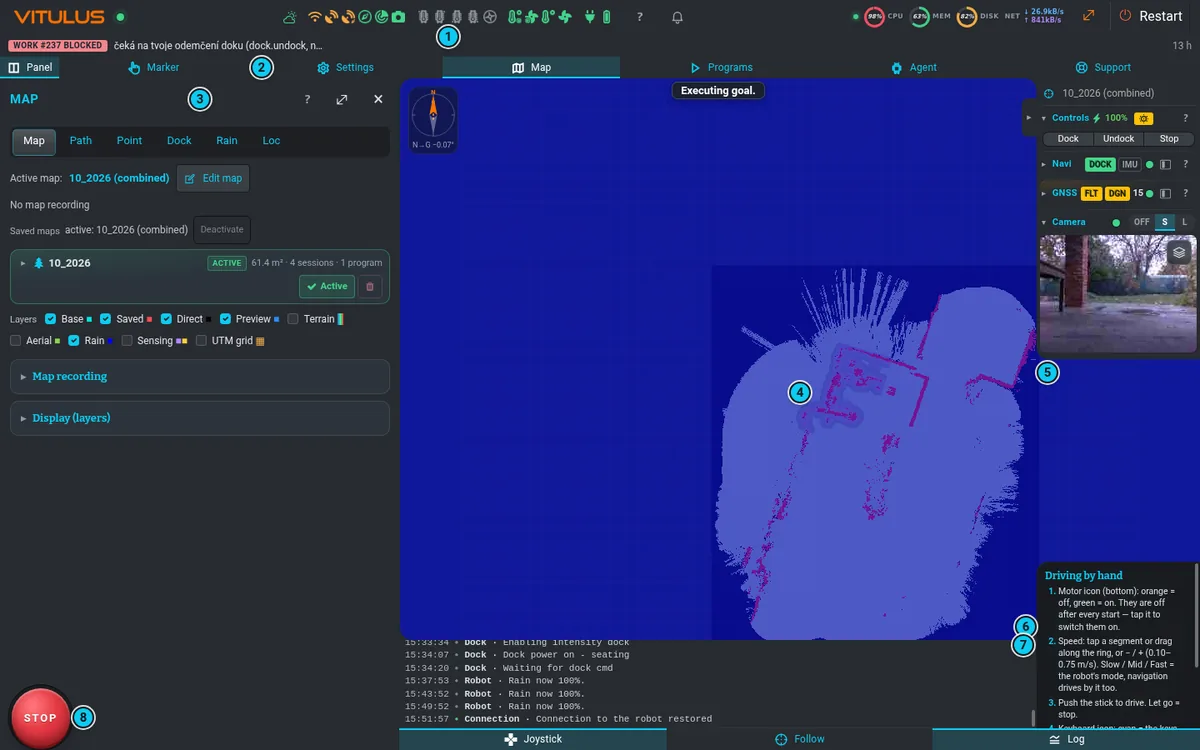
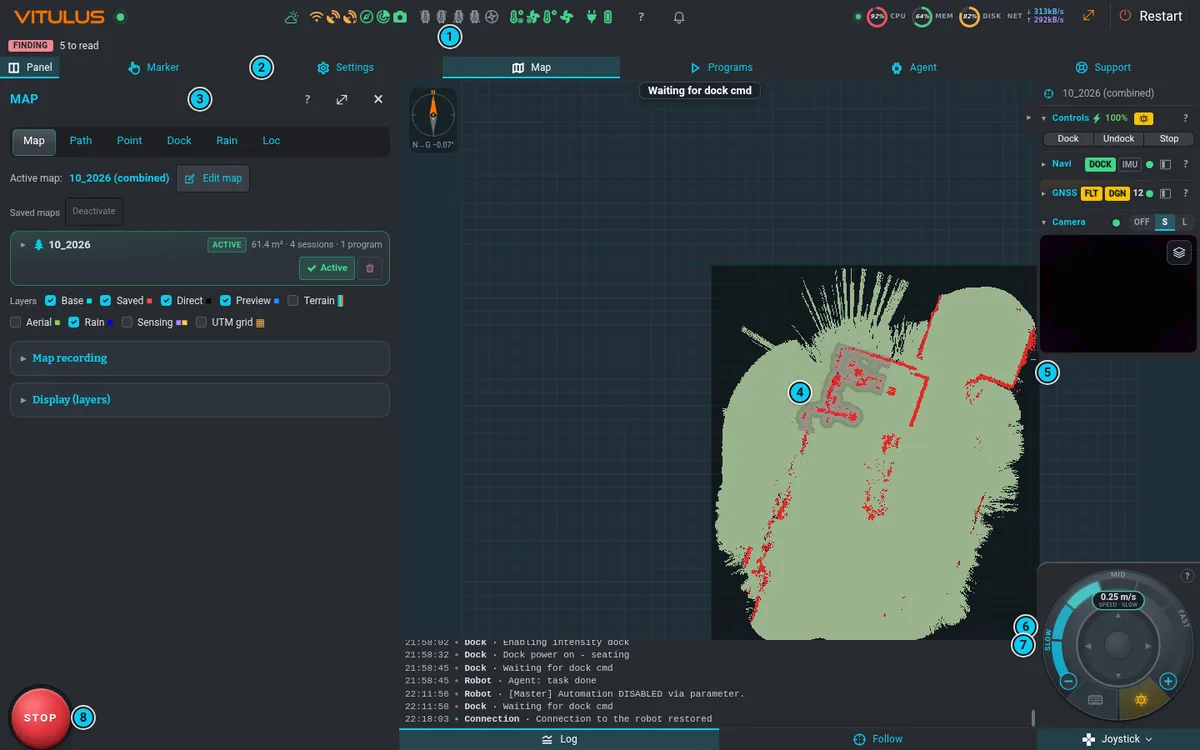
Spodní lišta: Log a Joystick prohozené, Joystick = ouško panelu jízdy
- pořadí Log · Follow · Joystick (telefon: Log · mezera 84 px · Follow · Joystick); Joystick na pravém konci přímo pod panelem jízdy, šířka a poloha = pravý sloupec (--vt-frame-col-w, s panelem vedle rozbaleného pravého panelu posun --vt-frame-joy-r), na výšku 104 px pod prstencem pásu
- zavřený panel: ouško vystupuje 12 px z lišty (plocha rámu, konvexní roh, konkávní přechod do lišty, úchyt) a ▴; otevřený: panel stojí na oušku bez švu, ouško podsvícené, ▾; aria-expanded + aria-controls
- ouško nevystupuje pod logem, sheetem, panelem přes celou šířku a nápovědou (vt-joy-tab ve vt_frame.js); pravý panel končí nad ním (right_dock.js)
- na dotyku zůstává mezera pro systémové gesto uprostřed
- tooltip en+cs, nápověda frame en+cs (Spodní lišta, Ruční jízda, Log), UI_LAYOUT, snímky shot-desktop / shot-phone / shot-bottom-bar

diff --git a/nodes/templates/assets/css/vt_panel.css b/nodes/templates/assets/css/vt_panel.css
@@ -1404,8 +1404,9 @@ body.vt-frame .vt-c-corner { display: block; }
    - STOP is ALWAYS the same: bottom-left, 20 % of the width (as before) —
      never smaller, never moved.
    - On a phone the bar sits at the very bottom edge and leaves a free gap in
-     the middle for the system home button / gesture pill: STOP + Joystick on
-     the left, Follow + Log on the right. No gap on a PC. */
+     the middle for the system home button / gesture pill: STOP + Log on the
+     left, Follow + Joystick on the right (2026-10-25: Joystick under the
+     drive panel, see "the drive panel's tab" below). No gap on a PC. */
 :root { --vt-bar-gap: 0px; }
 @media (max-width: 575.98px), (max-height: 499.98px), (pointer: coarse) {
     :root { --vt-bar-gap: 84px; }
@@ -1414,13 +1415,87 @@ body.vt-frame #btn_camera_show { display: none !important; }
 body.vt-frame #div_bottom_menu .btn-group { display: flex !important; }
 body.vt-frame #div_bottom_menu .btn-group > .btn { flex: 1 1 0; min-width: 0; }
 body.vt-frame #div_bottom_menu #btn_stop_all { flex: 0 0 20%; }
-body.vt-frame #div_bottom_menu #btn_joy { margin-right: var(--vt-bar-gap); }
+body.vt-frame #div_bottom_menu #btn_log { margin-right: var(--vt-bar-gap); }
 @media (max-width: 575.98px), (max-height: 499.98px), (pointer: coarse) {
     body.vt-frame #div_bottom_menu {
         bottom: 0 !important;
         background: var(--vt-frame-bg);
         padding-bottom: var(--safe-bottom, 0px);
     }
+}
+
+/* ===== Joystick = the drive panel's tab (owner 2026-10-25) ================
+   "Swap Log and Joystick, and Joystick goes with the joystick, joined to
+   it": the bar reads Log · Follow · Joystick and the Joystick button is the
+   TAB of the drive panel — right under it, as wide as the right column
+   (--vt-frame-col-w; under the deck also when it stands beside the unfolded
+   right panel, --vt-frame-joy-r).
+   - closed: the tab rises a little out of the bar (frame surface, convex
+     top-left corner, the C's concave fillet where it meets the bar — like
+     the other protrusions) and its chevron points up = "opens the panel
+     above"; vt_frame.js sets vt-joy-tab only where nothing of the frame
+     lies on that spot (log, sheet, full-width panel); the right panel ends
+     above it (right_dock.js);
+   - open: the deck stands on it — one column down to the page edge, no
+     seam (no accent edge between them), a light wash, the chevron down;
+   - phone upright: the band's ring sits on the right, so the tab is the
+     bar's right end too (narrower). On touch screens the gesture gap stays
+     centred: Follow + Joystick fill the right half. */
+:root { --vt-joy-tab-h: 12px; }
+body.vt-frame { --vt-joy-tab-w: var(--vt-frame-col-w, 196px); }
+body.vt-frame.vt-m-sheet { --vt-joy-tab-w: 104px; }
+body.vt-frame #div_bottom_menu #btn_joy {
+    flex: 0 0 var(--vt-joy-tab-w);
+    margin-right: var(--vt-frame-joy-r, 0px);
+    position: relative;
+    overflow: visible;
+}
+@media (max-width: 575.98px), (max-height: 499.98px), (pointer: coarse) {
+    body.vt-frame #div_bottom_menu #btn_follow {
+        flex: 0 0 max(48px, calc(50vw - var(--vt-bar-gap) / 2 - var(--vt-joy-tab-w) - var(--vt-frame-joy-r, 0px)));
+    }
+    /* the deck beside the unfolded right panel takes most of the right half:
+       Follow joins Log on the left, the gap stays next to the tab */
+    body.vt-frame.vt-joy-beside-rp #div_bottom_menu #btn_log { margin-right: 0; }
+    body.vt-frame.vt-joy-beside-rp #div_bottom_menu #btn_follow { flex: 1 1 0; margin-right: var(--vt-bar-gap); }
+}
+/* the tab: a strip of frame surface above the button, the fillet on its
+   left and a grip in its middle (the sheet's "pull me up" sign) */
+body.vt-frame #div_bottom_menu #btn_joy::before {
+    content: "";
+    position: absolute;
+    left: calc(-1 * var(--vt-joy-tab-h)); right: 0; bottom: 100%;
+    height: var(--vt-joy-tab-h);
+    background:
+        linear-gradient(rgba(var(--vt-accent-rgb), 0.55), rgba(var(--vt-accent-rgb), 0.55))
+            calc(50% + var(--vt-joy-tab-h) / 2) 5px / 28px 3px no-repeat,
+        radial-gradient(circle at 0 0, transparent calc(var(--vt-joy-tab-h) - 0.6px), var(--vt-frame-bg) var(--vt-joy-tab-h))
+            0 0 / var(--vt-joy-tab-h) 100% no-repeat,
+        radial-gradient(circle at 100% 100%, var(--vt-frame-bg) calc(var(--vt-joy-tab-h) - 0.6px), transparent var(--vt-joy-tab-h))
+            var(--vt-joy-tab-h) 0 / var(--vt-joy-tab-h) 100% no-repeat,
+        linear-gradient(var(--vt-frame-bg), var(--vt-frame-bg))
+            calc(2 * var(--vt-joy-tab-h)) 0 / calc(100% - 2 * var(--vt-joy-tab-h)) 100% no-repeat;
+    pointer-events: none;
+    display: none;
+}
+body.vt-frame.vt-joy-tab #div_bottom_menu #btn_joy::before { display: block; }
+body.vt-frame.vt-joy-tab:has(#vt_help.open) #div_bottom_menu #btn_joy::before { display: none; }
+/* the chevron: up = opens the panel above, down = closes it */
+#div_bottom_menu #btn_joy > .vt-joy-tab-chev {
+    order: 2;
+    font-size: 15px; font-weight: 400;
+    margin-left: 3px;
+    opacity: 0.7;
+    transition: transform .15s ease;
+}
+body.vt-frame.vt-m-dock #div_bottom_menu #btn_joy::after { order: 1; }
+#div_bottom_menu #btn_joy.vt-on > .vt-joy-tab-chev { transform: rotate(180deg); }
+body:not(.vt-frame) #div_bottom_menu #btn_joy > .vt-joy-tab-chev { display: none; }
+/* open: the deck and its tab are one column — a wash, no seam */
+html body.vt-frame #div_bottom_menu #btn_joy.btn.vt-on {
+    background: rgba(var(--vt-accent-rgb), 0.12);
+    box-shadow: none;
+    color: #fff;
 }
 
 /* ===== C frame 2 (owner 2026-10-18) ======================================

diff --git a/nodes/templates/index.html b/nodes/templates/index.html
@@ -778,7 +778,12 @@ ul.nav-tabs.drawer-pills .nav-link.active {
         <div class="btn-group btn-group-sm bg-dark border rounded border-1 border-primary vt-tbar" role="group"><button class="btn btn-outline-danger active d-flex justify-content-center align-items-center vt-tbar-first" id="btn_stop_all" type="button"><svg xmlns="http://www.w3.org/2000/svg" width="1em" height="1em" fill="currentColor" viewBox="0 0 16 16" class="bi bi-sign-stop-fill vt-fs-xl vt-strong">
                     <path d="M10.371 8.277v-.553c0-.827-.422-1.234-.987-1.234-.572 0-.99.407-.99 1.234v.553c0 .83.418 1.237.99 1.237.565 0 .987-.408.987-1.237m2.586-.24c.463 0 .735-.272.735-.744s-.272-.741-.735-.741h-.774v1.485h.774"></path>
                     <path d="M4.893 0a.5.5 0 0 0-.353.146L.146 4.54A.5.5 0 0 0 0 4.893v6.214a.5.5 0 0 0 .146.353l4.394 4.394a.5.5 0 0 0 .353.146h6.214a.5.5 0 0 0 .353-.146l4.394-4.394a.5.5 0 0 0 .146-.353V4.893a.5.5 0 0 0-.146-.353L11.46.146A.5.5 0 0 0 11.107 0zM3.16 10.08c-.931 0-1.447-.493-1.494-1.132h.653c.065.346.396.583.891.583.524 0 .83-.246.83-.62 0-.303-.203-.467-.637-.572l-.656-.164c-.61-.147-.978-.51-.978-1.078 0-.706.597-1.184 1.444-1.184.853 0 1.386.475 1.436 1.087h-.645c-.064-.32-.352-.542-.797-.542-.472 0-.77.246-.77.6 0 .261.196.437.553.522l.654.161c.673.164 1.06.487 1.06 1.11 0 .736-.574 1.228-1.544 1.228Zm3.427-3.51V10h-.665V6.57H4.753V6h3.006v.568H6.587Zm4.458 1.16v.544c0 1.131-.636 1.805-1.661 1.805-1.026 0-1.664-.674-1.664-1.805V7.73c0-1.136.638-1.807 1.664-1.807 1.025 0 1.66.674 1.66 1.807ZM11.52 6h1.535c.82 0 1.316.55 1.316 1.292 0 .747-.501 1.289-1.321 1.289h-.865V10h-.665V6.001Z"></path>
-                </svg></button><button class="btn btn-outline-info d-flex justify-content-center align-items-center" id="btn_camera_show" type="button"><i class="la la-camera vt-fs-xl vt-strong"></i></button><button class="btn btn-outline-info d-flex justify-content-center align-items-center" id="btn_joy" type="button"><i class="material-icons vt-fs-xl vt-strong">games</i></button><button class="btn btn-outline-info d-flex justify-content-center align-items-center" id="btn_follow" type="button"><svg xmlns="http://www.w3.org/2000/svg" width="1em" height="1em" viewBox="0 0 24 24" stroke-width="2" stroke="currentColor" fill="none" stroke-linecap="round" stroke-linejoin="round" class="icon icon-tabler icon-tabler-viewfinder vt-fs-xl vt-strong">
+                </svg></button><button class="btn btn-outline-info d-flex justify-content-center align-items-center" id="btn_camera_show" type="button"><i class="la la-camera vt-fs-xl vt-strong"></i></button><button class="btn btn-outline-info d-flex justify-content-center align-items-center" id="btn_log" type="button"><svg xmlns="http://www.w3.org/2000/svg" enable-background="new 0 0 24 24" height="1em" viewBox="0 0 24 24" width="1em" fill="currentColor" class="vt-fs-xl vt-strong">
+                    <g>
+                        <rect fill="none" height="24" width="24"></rect>
+                        <path d="M20,15H4v-2h16V15z M20,17H4v2h16V17z M15,11l5-3.55L20,5l-5,3.55L10,5L4,8.66L4,11l5.92-3.61L15,11z"></path>
+                    </g>
+                </svg></button><button class="btn btn-outline-info d-flex justify-content-center align-items-center" id="btn_follow" type="button"><svg xmlns="http://www.w3.org/2000/svg" width="1em" height="1em" viewBox="0 0 24 24" stroke-width="2" stroke="currentColor" fill="none" stroke-linecap="round" stroke-linejoin="round" class="icon icon-tabler icon-tabler-viewfinder vt-fs-xl vt-strong">
                     <path stroke="none" d="M0 0h24v24H0z" fill="none"></path>
                     <path d="M12 12m-9 0a9 9 0 1 0 18 0a9 9 0 1 0 -18 0"></path>
                     <path d="M12 3l0 4"></path>
@@ -786,12 +791,7 @@ ul.nav-tabs.drawer-pills .nav-link.active {
                     <path d="M3 12l4 0"></path>
                     <path d="M21 12l-3 0"></path>
                     <path d="M12 12l0 .01"></path>
-                </svg></button><button class="btn btn-outline-info d-flex justify-content-center align-items-center vt-tbar-last" id="btn_log" type="button"><svg xmlns="http://www.w3.org/2000/svg" enable-background="new 0 0 24 24" height="1em" viewBox="0 0 24 24" width="1em" fill="currentColor" class="vt-fs-xl vt-strong">
-                    <g>
-                        <rect fill="none" height="24" width="24"></rect>
-                        <path d="M20,15H4v-2h16V15z M20,17H4v2h16V17z M15,11l5-3.55L20,5l-5,3.55L10,5L4,8.66L4,11l5.92-3.61L15,11z"></path>
-                    </g>
-                </svg></button></div>
+                </svg></button><button class="btn btn-outline-info vt-tbar-last d-flex justify-content-center align-items-center" id="btn_joy" type="button" aria-controls="joy_view" aria-expanded="false"><i class="material-icons vt-fs-xl vt-strong">games</i><i class="material-icons vt-joy-tab-chev" aria-hidden="true">expand_less</i></button></div>
     </div>
     <div id="div_container">
         <div id="menu_spacer" style="height: var(--navbar-h, 42px);"></div>

diff --git a/nodes/templates/assets/js/right_dock.js b/nodes/templates/assets/js/right_dock.js
@@ -1026,6 +1026,13 @@
                 bottomLimit = (lr && lr.height > 0) ? lr.top : (bar && bar.top > 0 ? bar.top : vh);
             } else if (joy && joy.top > 0) { bottomLimit = Math.min(bottomLimit, joy.top - FRAME_GAP + 6); }
             if (!beside) { bottomLimit = Math.min(bottomLimit, (bar && bar.top > 0 ? bar.top : vh) - FRAME_GAP + 6); }
+            /* the closed Joystick tab rises out of the bar under the column
+               (vt_frame.js vt-joy-tab): the panel keeps the same gap above it */
+            var tab = document.getElementById('btn_joy');
+            if (tab && bar && bar.top > 0 && document.body.classList.contains('vt-joy-tab')) {
+                var th = parseFloat(getComputedStyle(tab, '::before').height) || 0;
+                bottomLimit = Math.min(bottomLimit, bar.top - th - FRAME_GAP + 6);
+            }
         }
         /* Joystick: dokud je panel zavřený, drží si svůj roh a panel se mu
            vyhne. S otevřeným panelem se joystick posune VEDLE něj (viz
@@ -1516,6 +1523,12 @@
             new MutationObserver(place)
                 .observe(joy, {attributes: true, attributeFilter: ['style']});
         }
+        /* the Joystick tab (vt_frame.js vt-joy-tab) comes and goes after the
+           stick's own change: place again only when that flag flips */
+        new MutationObserver(function (recs) {
+            var was = recs.length && / vt-joy-tab /.test(' ' + (recs[0].oldValue || '') + ' ');
+            if (was !== document.body.classList.contains('vt-joy-tab')) { placeSoon(); }
+        }).observe(document.body, {attributes: true, attributeFilter: ['class'], attributeOldValue: true});
         var drawer = document.getElementById('ui_drawer');
         if (drawer) {
             new MutationObserver(function () {

diff --git a/nodes/templates/assets/js/vt_frame.js b/nodes/templates/assets/js/vt_frame.js
@@ -194,6 +194,12 @@
         setVar('--vt-frame-ledge', px(bh + lh));       // top of the bottom bar + small log
         var colTop = H - (bh + (joyOnLog ? lh : 0)) - colH;
         setCls(body, 'vt-c-log', lh > 0);
+        // the Joystick button is the drive panel's TAB (owner 2026-10-25): with
+        // the panel closed it rises a little out of the bar under the right
+        // column — only where nothing of the frame lies on that spot (small or
+        // full log, the phone's sheet, a full-width panel; the help pane: CSS)
+        var tab = !joyOn && lh === 0 && !logFull && !full && !(m === 'sheet' && open);
+        setCls(body, 'vt-joy-tab', tab);
 
         // right panel: hangs from the top band at the right edge
         var rp = $('right_panel');
@@ -510,6 +516,8 @@
             setCls(b, 'vt-on', on[id]);
             var ap = on[id] ? 'true' : 'false';
             if (b.getAttribute('aria-pressed') !== ap) { b.setAttribute('aria-pressed', ap); }
+            // the Joystick tab opens the drive panel above it (aria-controls="joy_view")
+            if (id === 'btn_joy' && b.getAttribute('aria-expanded') !== ap) { b.setAttribute('aria-expanded', ap); }
         });
     }
 

diff --git a/nodes/templates/assets/js/i18n/cs.js b/nodes/templates/assets/js/i18n/cs.js
@@ -397,7 +397,7 @@
     "frame.btn.camera": "Kamera",
     "frame.btn.camera.tip": "Zobrazit / skrýt náhled kamery",
     "frame.btn.joy": "Joystick",
-    "frame.btn.joy.tip": "Zobrazit / skrýt joystick na obrazovce",
+    "frame.btn.joy.tip": "Otevřít / zavřít panel jízdy nad tlačítkem (joystick na obrazovce)",
     "frame.btn.follow": "Sledovat",
     "frame.btn.follow.tip": "Pohled sleduje mapu / robota",
     "frame.btn.log": "Log",

diff --git a/nodes/templates/assets/js/i18n/en.js b/nodes/templates/assets/js/i18n/en.js
@@ -398,7 +398,7 @@
     "frame.btn.camera": "Camera",
     "frame.btn.camera.tip": "Show / hide the camera preview",
     "frame.btn.joy": "Joystick",
-    "frame.btn.joy.tip": "Show / hide the on-screen joystick",
+    "frame.btn.joy.tip": "Open / close the drive panel above (on-screen joystick)",
     "frame.btn.follow": "Follow",
     "frame.btn.follow.tip": "Camera follows the map / the robot",
     "frame.btn.log": "Log",

diff --git a/tools/help_shots.py b/tools/help_shots.py
@@ -88,7 +88,8 @@ def panel(btn, tab=None, more=()):
 SHOTS = [
     # --- the whole screen (start.md) and the phone (frame.md)
     dict(name='shot-desktop', vp=DESK, scale=1, width=1200, md=26,
-         steps=[('click', '#btn_map'), ('click', '#btn_log'), ('click', '#btn_joy'), ('wait', 1500), ('js', ZOOM_OUT)],
+         steps=[('click', '#btn_map'), ('click', '#btn_log'), ('click', '#btn_joy'), ('wait', 1500), ('js', ZOOM_OUT),
+                ('js', "const ok = document.querySelector('#joy_view .vt-joy-intro-ok'); if (ok && ok.offsetParent) ok.click(); return '';"), ('wait', 300)],
          marks=[('#status_div', '1', 'b'), ('#btn_marker', '2', 'r'),
                 ('#ui_drawer_head', '3', 'c'), ('#map_view', '4', 'c'), ('#rp_body', '5', 'bl'),
                 ('#div_log_view', '6', 'tr'), ('#joy_view', '7', 'l'), ('#vt_stop_big', '8', 'r')]),
@@ -100,7 +101,8 @@ SHOTS = [
          marks=[('#ui_drawer_grip', '1', 'c'), ('#div_menu_map a[href="#tab-map"]', '2', 'b'), ('#btn_ui_drawer_help', '3', 't'),
                 ('#btn_ui_drawer_full', '4', 't'), ('#btn_ui_drawer_close', '5', 't')]),
     # --- frame pieces (frame.md)
-    dict(name='shot-bottom-bar', vp=(1000, 700), scale=2, width=900, clip='#div_bottom_menu', pad=0, marks=[]),
+    # 2026-10-25: Log · Follow · Joystick — pad 14 keeps the Joystick tab rising out of the bar
+    dict(name='shot-bottom-bar', vp=(1000, 700), scale=2, width=900, clip='#div_bottom_menu', pad=14, marks=[]),
     dict(name='shot-log', vp=DESK, scale=2, width=900, clip='#div_log_view', pad=0, trim=(820, 300), md=18,
          steps=[('click', '#btn_log'), ('wait', 600), ('click', '#btn_log_expand'), ('wait', 1000)],
          marks=[('#div_log_view .btn-outline-info:not(.log-iconbtn)', '1', 'b'), ('#div_log_view .btn-outline-info:not(.log-iconbtn):not(.active)', '2', 'b'),

diff --git a/docs/help/frame.md b/docs/help/frame.md
@@ -53,14 +53,15 @@ scrolls sideways: a **‹** / **›** at the edge shows there are more — click
 over the row or swipe it with a finger. The tab you pick (and the open one, whenever the panel
 opens) slides fully into view; with the keyboard **←** / **→** move between tabs.
 
-![The UI on a phone held upright, no panel open, with numbered markers](img/shot-phone.webp "Phone, no panel: 1 Needs you · 2 menu band · 3 status icons · 4 map · 5 right panel (one row, ▾ unfolds it) · 6 STOP · 7 Joystick, Follow, Log") ![The UI on a phone with the Map panel open as a sheet from the bottom, with numbered markers](img/shot-phone-sheet.webp "Phone, Map panel open: 1 title (drag the grip) · 2 tabs · 3 ? help · 4 ⤢ full screen · 5 ✕ close")
+![The UI on a phone held upright, no panel open, with numbered markers](img/shot-phone.webp "Phone, no panel: 1 Needs you · 2 menu band · 3 status icons · 4 map · 5 right panel (one row, ▾ unfolds it) · 6 STOP · 7 Log, Follow, Joystick") ![The UI on a phone with the Map panel open as a sheet from the bottom, with numbered markers](img/shot-phone-sheet.webp "Phone, Map panel open: 1 title (drag the grip) · 2 tabs · 3 ? help · 4 ⤢ full screen · 5 ✕ close")
 
 ## The bottom bar
 
-![The bottom bar: the red STOP on the left, then Joystick, Follow and Log](img/shot-bottom-bar.webp "The bottom bar on a PC, left to right: STOP · Joystick · Follow · Log")
+![The bottom bar: the red STOP on the left, then Log, Follow and the Joystick tab on the right](img/shot-bottom-bar.webp "The bottom bar on a PC, left to right: STOP · Log · Follow · Joystick")
 
-**Joystick** · **Follow** · **Log** (on a phone with a free gap in the middle for the
-system gesture). The **STOP** is the round red mushroom in the **bottom-left corner of the frame**:
+**Log** · **Follow** · **Joystick** (on a phone with a free gap in the middle for the
+system gesture). **Joystick** sits at the right end, right under the drive panel it opens —
+see [Drive by hand](#drive-by-hand-joystick). The **STOP** is the round red mushroom in the **bottom-left corner of the frame**:
 on a PC the frame flows in one smooth arc round the STOP and on into the bottom bar — with the
 left panel closed from the panel's free left edge, with it open from the edge of the panel's
 content, which bends round the STOP, so the STOP never covers anything and nothing covers it — not a panel, the log or the sheet.
@@ -168,10 +169,14 @@ only while a layer is on and the camera is shown; with every layer off it does n
 
 ## Drive by hand (joystick)
 
-**Joystick** in the bottom bar shows the **drive ring**: one round control at the foot of the
-right column (as wide as the right panel, 184 px), standing on the bottom bar. On a phone held
+**Joystick** at the right end of the bottom bar is the **tab of the drive panel**: it sits right
+under it, as wide as the right column. Closed, the tab rises a little out of the bar with a grip
+and an **▴** — it opens the panel above it; open, the panel stands on the tab as one piece
+(the tab lit, **▾** closes it). The panel is the **drive ring**: one round control at the foot of
+the right column (as wide as the right panel, 184 px), standing on the bottom bar. On a phone held
 upright it is a band across the screen on the bottom bar — a short text on the left, the ring
-(150 px) on the right under the thumb; on a landscape phone the ring is 150 px too.
+(150 px) on the right under the thumb, the Joystick tab right below it; on a landscape phone the
+ring is 150 px too.
 
 ![The drive ring with numbered markers](img/shot-joystick.webp "1 the capsule: top speed and mode · 2 the 7 speed segments · 3 Slow / Mid / Fast = the robot's mode · 4 the stick · 5 Keys (icon) · 6 Motors (icon) · 7 ? how it works · 8 − / +")
 
@@ -242,9 +247,9 @@ panel. It is the full stop ([Safety](safety.md#stop)); it also lets go of the st
 
 ![The log expanded over the map, with its toolbar and numbered markers](img/shot-log.webp "The expanded log: 1 Changes · 2 ROS · 3 Live · 4 Clear · 5 ▼ Collapse · 6 ? help")
 
-**Log** in the bottom bar shows the log as a strip above the bar. **▲** (expand) makes it fill
-the map area, **▼** (collapse) shrinks it back; **Log** again hides it. With the joystick on,
-the small log stands on the drive ring.
+**Log** at the left of the bottom bar shows the log as a strip above the bar. **▲** (expand) makes it fill
+the map area, **▼** (collapse) shrinks it back; **Log** again hides it. With the drive panel open,
+the small log ends beside it.
 
 The full log has a toolbar:
 

diff --git a/docs/UI_LAYOUT.md b/docs/UI_LAYOUT.md
@@ -71,10 +71,20 @@ pravého panelu a v liště logu otevře nápovědu k tomu, co je otevřené (pa
 
 | | PC | Telefon (na výšku i na šířku, dotyk) |
 |---|---|---|
-| Pořadí | STOP · Joystick · Follow · Log | STOP · Joystick · *volné místo 84 px* · Follow · Log |
+| Pořadí (2026-10-25: Log a Joystick prohozené) | STOP · Log · Follow · **Joystick** | STOP · Log · *volné místo 84 px* · Follow · **Joystick** |
+| Joystick = ouško panelu jízdy | na pravém konci, šířka a poloha = pravý sloupec / panel jízdy (`--vt-frame-col-w`; s panelem jízdy vedle rozbaleného pravého panelu posunuté o `--vt-frame-joy-r`) | na výšku: pravý konec lišty pod prstencem pásu jízdy, 104 px; na šířku: jako PC (pod panelem jízdy). Na dotyku drží Follow + Joystick pravou polovinu, takže mezera 84 px zůstává uprostřed (s panelem jízdy vedle pravého panelu jde Follow doleva k Logu a mezera je hned vedle ouška) |
 | Poloha | spodní okraj | **úplně dole u spodní hrany**, tlačítka nad `env(safe-area-inset-bottom)`; střed volný pro systémové tlačítko / gesto Androidu a Chromu |
 | STOP | vlevo dole, 20 % šířky | totéž — **vždy stejné místo a velikost, nikdy se nezmenšuje ani neposouvá** |
 | Kamera | v pravém panelu (sekce Camera) | v pravém panelu: ▾ rozbalí sbalený řádek, sekce Camera |
+
+**Ouško Joystick** (owner 2026-10-25: „Joystick bude u joysticku a bude s ním
+jakoby spojený“): tlačítko Joystick je úchyt panelu jízdy, ne samostatná krabička.
+
+| Stav | Vzhled |
+|---|---|
+| panel jízdy zavřený | ouško vystupuje 12 px (`--vt-joy-tab-h`) z lišty: plocha rámu, konvexní roh vlevo nahoře, konkávní přechod do lišty vlevo, ostrý roh u pravé hrany stránky, uprostřed úchyt (pruh akcentu 28 × 3 px), u popisku **▴** = otevře panel nad sebou; pravý panel končí nad ním se stejnou mezerou jako nad lištou (right_dock.js) |
+| panel jízdy otevřený | panel stojí na oušku, jeden sloupec až ke spodní hraně bez švu (žádná hrana akcentu mezi nimi), ouško jemně podsvícené, **▾** = zavřít; `aria-expanded` + `aria-controls="joy_view"` |
+| ouško nevystupuje | když na tom místě leží jiná část rámu: malý / celý log, sheet panelu na telefonu, panel přes celou šířku, nápověda — třída `vt-joy-tab` na `<body>` (vt_frame.js), nápověda přes `:has(#vt_help.open)` |
 
 ## Režimy (třída na `<body>`)
 
@@ -125,7 +135,7 @@ skrytý) je tečka schovaná a výpadek hlásí právě tenhle pás.
 | Log malý | výběžek spodní lišty od panelu po joystick (nebo pravou hranu) | od hřbetu po joystick / pravou hranu |
 | Log celý | ze spodní lišty do dutiny pod hlášky, vlevo od panelu; **tvar L (P21)**: vedle pravého panelu končí u jeho hrany, pod ním pokračuje až k joysticku (bez joysticku k pravé hraně) — log, pravý panel a joystick jsou jedna plocha rámu, otevřené zůstává jen okno mapy mezi spodkem pravého panelu a joystickem | totéž od hřbetu |
 | Log skrytý | — (tlačítko ≡ ve spodní liště) | — |
-| Joystick | stojí na spodní liště u pravé hrany vedle malého logu | totéž |
+| Joystick | stojí na spodní liště u pravé hrany vedle malého logu, pod ním ouško Joystick | totéž |
 | Kamera large | dutina vlevo od pravého panelu, mapa ve slotu pravého panelu | totéž |
 | Spodní lišta | celá šířka | totéž |
 
